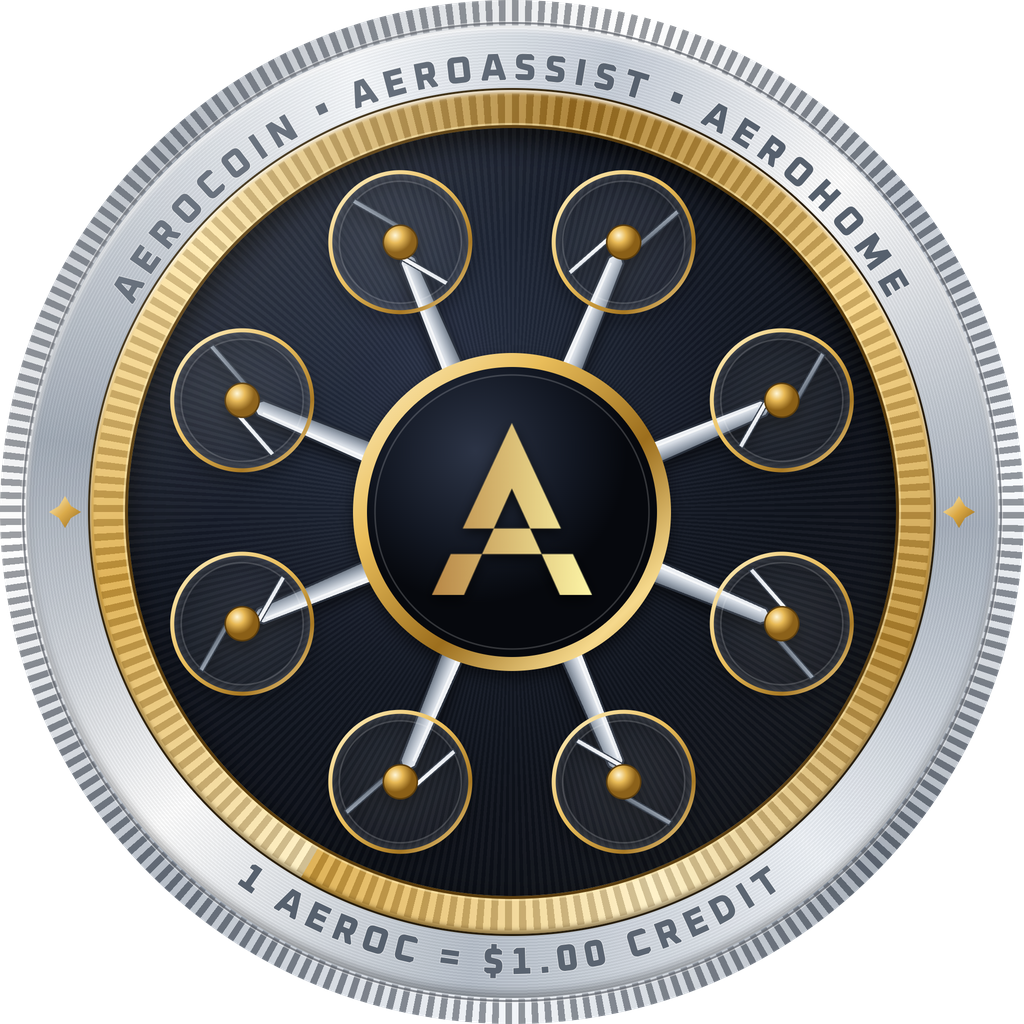
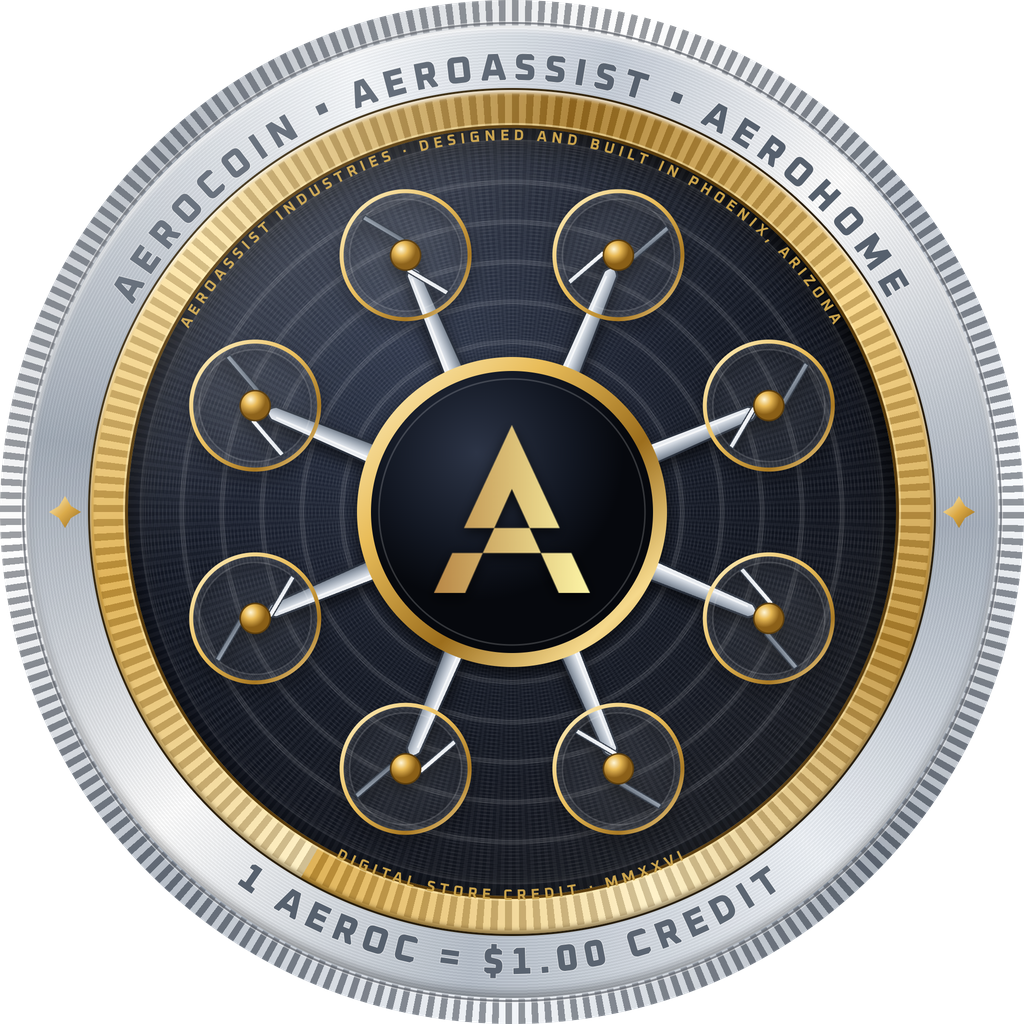
Two-sided 3D coin hero, mint-detail obverse and reverse, The coin section
Claude-Session: https://claude.ai/code/session_011tU1sWJE9U8aPvZsodhiRM

diff --git a/index.html b/index.html
@@ -108,13 +108,38 @@ a.btn.btn-gold{color:var(--on-gold)}
 .seal small{display:block;font-family:var(--mono);font-size:11.5px;letter-spacing:.12em;text-transform:uppercase;color:var(--slate-dim)}
 .hero-stage{position:relative;display:grid;place-items:center;overflow:hidden;background:radial-gradient(48% 58% at 50% 46%,rgba(214,220,228,.13),transparent 62%),radial-gradient(90% 90% at 50% 50%,#151a24 0%,#0a0d14 55%,var(--abyss) 100%)}
 .hero-stage::before{content:"";position:absolute;inset:0;background:repeating-radial-gradient(circle at 50% 46%,rgba(255,255,255,.025) 0 1px,transparent 1px 7px)}
-.coin-stage{position:relative;width:min(470px,78%);aspect-ratio:1;perspective:1200px}
-.tilt{position:relative;width:100%;height:100%;transform:rotateX(var(--rx,0deg)) rotateY(var(--ry,0deg));transform-style:preserve-3d;transition:transform .25s ease-out}
-.coin{width:100%;height:100%;filter:drop-shadow(0 46px 60px rgba(0,0,0,.9));animation:arrive 1.6s cubic-bezier(.2,.7,.2,1) both}
-.glint{position:absolute;inset:1%;border-radius:50%;pointer-events:none;mix-blend-mode:screen;background:radial-gradient(circle at var(--gx,30%) var(--gy,25%),rgba(255,255,255,.36),rgba(255,255,255,.06) 28%,transparent 48%);animation:fadein 1.6s both}
-@keyframes arrive{0%{transform:rotateY(-540deg) scale(.82);opacity:0}35%{opacity:1}100%{transform:rotateY(0) scale(1);opacity:1}}
+.coin-stage{position:relative;width:min(470px,78%);aspect-ratio:1;perspective:1400px;cursor:grab;touch-action:pan-y;user-select:none;-webkit-user-select:none}
+.coin-stage.drag{cursor:grabbing}
+.coin3d{position:relative;width:100%;height:100%;transform-style:preserve-3d;transform:rotateX(var(--rx,0deg)) rotateY(var(--ry,0deg));animation:arrive 1.8s cubic-bezier(.2,.7,.2,1) both}
+.coin3d.settle{transition:transform .9s cubic-bezier(.2,.8,.2,1)}
+.face3d{position:absolute;inset:0;border-radius:50%;backface-visibility:hidden;-webkit-backface-visibility:hidden;transform:translateZ(calc(var(--t)/2 + 1px))}
+.face3d img{width:100%;height:100%;border-radius:50%;display:block;-webkit-user-drag:none}
+.face3d.back{transform:rotateY(180deg) translateZ(calc(var(--t)/2 + 1px))}
+.edge3d{position:absolute;inset:0;border-radius:50%;background:conic-gradient(from 0deg,#e9edf2,#8f99a7 12%,#f3f6fa 25%,#6d7682 40%,#e6eaef 55%,#8e97a3 70%,#f7f9fb 85%,#e9edf2);transform:translateZ(var(--z));-webkit-mask:radial-gradient(circle,transparent 96.5%,#000 97%);mask:radial-gradient(circle,transparent 96.5%,#000 97%)}
+.coin-shadow{position:absolute;left:10%;right:10%;bottom:-14%;height:12%;border-radius:50%;background:radial-gradient(ellipse at center,rgba(0,0,0,.75),rgba(0,0,0,.35) 45%,transparent 72%);filter:blur(6px);animation:fadein 1.8s both}
+.glint{position:absolute;inset:1%;border-radius:50%;pointer-events:none;mix-blend-mode:screen;background:radial-gradient(circle at var(--gx,30%) var(--gy,25%),rgba(255,255,255,.36),rgba(255,255,255,.06) 28%,transparent 48%);animation:fadein 1.8s both;transform:translateZ(calc(var(--t)/2 + 1px))}
+@keyframes arrive{0%{transform:rotateY(-720deg) scale(.8);opacity:0}30%{opacity:1}100%{transform:rotateY(0) scale(1);opacity:1}}
 @keyframes fadein{0%,60%{opacity:0}100%{opacity:1}}
-.stage-caption{position:absolute;left:0;right:0;bottom:28px;text-align:center;font-family:var(--mono);font-size:12px;letter-spacing:.16em;text-transform:uppercase;color:var(--mist-dim)}
+.stage-caption{position:absolute;left:0;right:0;bottom:28px;display:flex;justify-content:center;gap:10px;align-items:center;font-family:var(--mono);font-size:12px;letter-spacing:.16em;text-transform:uppercase;color:var(--mist-dim)}
+.stage-caption button{font:inherit;letter-spacing:inherit;text-transform:inherit;color:var(--mist);background:transparent;border:1px solid var(--line-dark);padding:8px 14px;cursor:pointer}
+.stage-caption button:hover{color:var(--ink);border-color:var(--mist-dim)}
+.stage-caption button[aria-pressed="true"]{color:var(--gold);border-color:rgba(226,190,114,.5)}
+.stage-hint{position:absolute;left:0;right:0;top:26px;text-align:center;font-family:var(--mono);font-size:11.5px;letter-spacing:.16em;text-transform:uppercase;color:var(--mist-dim);animation:fadein 2.4s both}
+
+/* the coin section */
+.coinspec{display:grid;grid-template-columns:minmax(0,1fr) minmax(0,1fr);gap:72px;align-items:center}
+.coinspec figure{margin:0;position:relative}
+.coinspec figure img{width:min(520px,100%);margin:0 auto;filter:drop-shadow(0 40px 60px rgba(0,0,0,.85))}
+.spec-list{list-style:none;margin:0;padding:0;display:grid}
+.spec-list li{display:grid;grid-template-columns:40px 1fr;gap:18px;padding:20px 0;border-top:1px solid var(--line-dark)}
+.spec-list li:last-child{border-bottom:1px solid var(--line-dark)}
+.spec-list i{display:grid;place-items:center;width:40px;height:40px;border-radius:50%;font-style:normal;font-family:var(--display);font-weight:800;font-size:15px;color:var(--gold);background:radial-gradient(circle,#121722 0 15px,transparent 15.5px),conic-gradient(#f5f7fa,#8e97a3 25%,#eef1f5 50%,#7a838f 75%,#f5f7fa)}
+.spec-list b{display:block;font-family:var(--display);font-weight:700;font-size:19px;color:var(--ink)}
+.spec-list span{display:block;font-size:15.5px;color:var(--mist)}
+.coin-tabs{display:flex;gap:8px;margin-bottom:28px}
+.coin-tabs button{font-family:var(--display);font-weight:700;font-size:13px;letter-spacing:.12em;text-transform:uppercase;color:var(--mist);background:transparent;border:1px solid var(--line-dark);padding:10px 18px;cursor:pointer}
+.coin-tabs button[aria-selected="true"]{color:var(--on-gold);background:linear-gradient(135deg,var(--sheen-light),var(--gold) 45%,var(--sheen-dark));border-color:transparent}
+.coin-panel[hidden]{display:none}
 
 /* assurance strip */
 .assure{border-bottom:1px solid var(--line-light)}
@@ -293,7 +318,7 @@ a.btn.btn-gold{color:var(--on-gold)}
   .hero-stage{order:-1;min-height:400px}
   .coin-stage{width:min(320px,72%)}
   .hero-copy{padding:56px var(--gutter) 64px}
-  .head.split,.how,.setup,.faq{grid-template-columns:1fr;gap:40px}
+  .head.split,.how,.setup,.faq,.coinspec{grid-template-columns:1fr;gap:40px}
   .faq .head{position:static}
   .cols3,.merchants,.guards{grid-template-columns:1fr}
   .closing .wrap{flex-direction:column;align-items:flex-start}
@@ -316,8 +341,8 @@ a.btn.btn-gold{color:var(--on-gold)}
 @media (min-width:961px){.mobile-nav.open{display:none}}
 @media (prefers-reduced-motion:reduce){
   html{scroll-behavior:auto}
-  .coin,.glint{animation:none}
-  .tilt,.qa summary::after{transition:none}
+  .coin3d,.glint,.coin-shadow,.stage-hint{animation:none}
+  .coin3d.settle,.qa summary::after{transition:none}
 }
 </style>
 </head>
@@ -330,7 +355,7 @@ a.btn.btn-gold{color:var(--on-gold)}
       <a href="#how">How it works</a>
       <a href="#earn">Earn</a>
       <a href="#spend">Spend</a>
-      <a href="#compare">Compare</a>
+      <a href="#coin">The coin</a>
       <a href="#wallet">Wallet</a>
       <a href="#questions">FAQ</a>
     </nav>
@@ -341,7 +366,8 @@ a.btn.btn-gold{color:var(--on-gold)}
     <a href="#how">How it works</a>
     <a href="#earn">Earn</a>
     <a href="#spend">Spend</a>
-    <a href="#compare">Compare</a>
+ <a href="#compare">Compare</a>
+    <a href="#coin">The coin</a>
     <a href="#wallet">Wallet</a>
     <a href="#questions">FAQ</a>
     <a class="cta" href="https://aeroassist.us">Join rewards</a>
@@ -367,13 +393,17 @@ a.btn.btn-gold{color:var(--on-gold)}
       </div>
     </div>
     <div class="hero-stage">
-      <div class="coin-stage">
-        <div class="tilt">
-          <img class="coin" src="assets/coin-1024.png" alt="The AeroCoin: a platinum coin with an engraved gold ring, an eight-rotor drone with gold rotors on its face and the gold AeroAssist A on the drone's hub" width="470" height="470">
+      <p class="stage-hint">Drag to spin · Tap to flip</p>
+      <div class="coin-stage" id="coin-stage" style="--t:22px">
+        <div class="coin3d" id="coin3d">
+          <div class="edge3d" style="--z:-11px"></div><div class="edge3d" style="--z:-8px"></div><div class="edge3d" style="--z:-5px"></div><div class="edge3d" style="--z:-2px"></div><div class="edge3d" style="--z:1px"></div><div class="edge3d" style="--z:4px"></div><div class="edge3d" style="--z:7px"></div><div class="edge3d" style="--z:10px"></div>
+          <div class="face3d front"><img src="assets/coin-1024.png" alt="AeroCoin, front: a platinum coin with an engraved gold ring, an eight-rotor drone and the gold AeroAssist A on its hub" width="470" height="470"></div>
+          <div class="face3d back"><img src="assets/coin-reverse-1024.png" alt="AeroCoin, back: a large gold 1, the words One dollar of store credit, Phoenix, Arizona, 2026" width="470" height="470"></div>
           <div class="glint" aria-hidden="true"></div>
         </div>
+        <div class="coin-shadow" aria-hidden="true"></div>
       </div>
-      <p class="stage-caption">1 AEROC = $1.00 of credit</p>
+      <div class="stage-caption"><button type="button" data-side="0" aria-pressed="true">Front</button><button type="button" data-side="180" aria-pressed="false">Back</button></div>
     </div>
   </div>
 
@@ -558,7 +588,43 @@ a.btn.btn-gold{color:var(--on-gold)}
     </div>
   </section>
 
-  <section class="dark">
+  <section id="coin" class="dark">
+    <div class="wrap coinspec">
+      <figure>
+        <img id="spec-img" src="assets/coin-1024.png" alt="AeroCoin front" width="520" height="520">
+      </figure>
+      <div>
+        <div class="head" style="margin-bottom:32px">
+          <p class="kicker">The coin</p>
+          <h2>Two faces,<span class="g">three metals.</span></h2>
+          <p class="intro">AeroCoin is designed like a minted coin: a platinum rim with a reeded edge, an engraved gold ring, and a dark proof field with an engine-turned pattern.</p>
+        </div>
+        <div class="coin-tabs" role="tablist" aria-label="Coin sides">
+          <button type="button" role="tab" aria-selected="true" aria-controls="panel-front" data-img="assets/coin-1024.png">Front</button>
+          <button type="button" role="tab" aria-selected="false" aria-controls="panel-back" data-img="assets/coin-reverse-1024.png">Back</button>
+        </div>
+        <div id="panel-front" class="coin-panel" role="tabpanel">
+          <ul class="spec-list">
+            <li><i>1</i><div><b>Platinum rim</b><span>Reeded edge, with AeroCoin, AeroAssist and AeroHome engraved around the top and the coin's value around the bottom.</span></div></li>
+            <li><i>2</i><div><b>Engraved gold ring</b><span>A wide band of gold with a fine radial engraving, flanked by two gold stars.</span></div></li>
+            <li><i>3</i><div><b>The octocopter</b><span>An eight-rotor aircraft in platinum, the same layout as AeroAssist's XR line, with gold rotor rings and hubs.</span></div></li>
+            <li><i>4</i><div><b>The AeroAssist mark</b><span>The gold A sits at the aircraft's center, on a gold-ringed hub.</span></div></li>
+            <li><i>5</i><div><b>Micro-lettering</b><span>A fine inner ring reads "Designed and built in Phoenix, Arizona" and carries the year in Roman numerals.</span></div></li>
+          </ul>
+        </div>
+        <div id="panel-back" class="coin-panel" role="tabpanel" hidden>
+          <ul class="spec-list">
+            <li><i>1</i><div><b>The denomination</b><span>A large gold 1 over the words One dollar of store credit: what every AeroCoin is worth.</span></div></li>
+            <li><i>2</i><div><b>The ticker</b><span>AEROC, the symbol your wallet shows for AeroCoin.</span></div></li>
+            <li><i>3</i><div><b>Origin and year</b><span>Phoenix, Arizona and 2026 around the rim, with an AZ mint mark on the field.</span></div></li>
+            <li><i>4</i><div><b>Micro-lettering</b><span>"Earn it, hold it, spend it" above and "Recorded on Base, retired when spent" below.</span></div></li>
+          </ul>
+        </div>
+      </div>
+    </div>
+  </section>
+
+  <section class="dark" style="padding-top:0">
     <div class="wrap">
       <div class="head split">
         <div>
@@ -703,16 +769,31 @@ a.btn.btn-gold{color:var(--on-gold)}
   }
 })();
 (function(){
-  var stage=document.querySelector('.coin-stage');
-  if(!stage||!window.matchMedia||window.matchMedia('(prefers-reduced-motion: reduce)').matches||!window.matchMedia('(pointer: fine)').matches)return;
-  var tilt=stage.querySelector('.tilt'),glint=stage.querySelector('.glint'),area=document.querySelector('.hero');
-  area.addEventListener('pointermove',function(e){
-    var r=stage.getBoundingClientRect(),x=(e.clientX-r.left)/r.width-.5,y=(e.clientY-r.top)/r.height-.5;
-    x=Math.max(-.8,Math.min(.8,x));y=Math.max(-.8,Math.min(.8,y));
-    tilt.style.setProperty('--ry',(x*16).toFixed(2)+'deg');tilt.style.setProperty('--rx',(-y*16).toFixed(2)+'deg');
-    glint.style.setProperty('--gx',(50+x*60).toFixed(1)+'%');glint.style.setProperty('--gy',(50+y*60).toFixed(1)+'%');
-  });
-  area.addEventListener('pointerleave',function(){tilt.style.setProperty('--ry','0deg');tilt.style.setProperty('--rx','0deg');});
+  var stage=document.getElementById('coin-stage'),coin=document.getElementById('coin3d');
+  if(!stage||!coin)return;
+  var reduce=window.matchMedia&&window.matchMedia('(prefers-reduced-motion: reduce)').matches;
+  var ry=0,rx=0,dragging=false,moved=false,lastX=0,lastY=0,vel=0,startT=0,raf=null;
+  var glint=coin.querySelector('.glint');
+  function apply(){coin.style.setProperty('--ry',ry.toFixed(2)+'deg');coin.style.setProperty('--rx',rx.toFixed(2)+'deg');
+    var f=((ry%360)+360)%360; var gx=50+Math.sin(f*Math.PI/180)*-40; glint.style.setProperty('--gx',gx.toFixed(1)+'%');glint.style.setProperty('--gy',(30+rx).toFixed(1)+'%');
+    var front=f<90||f>270; buttons.forEach(function(b){b.setAttribute('aria-pressed',(b.dataset.side==='0')===front?'true':'false');});}
+  var buttons=[].slice.call(document.querySelectorAll('.stage-caption button'));
+  coin.addEventListener('animationend',function(){coin.style.animation='none';apply();});
+  if(reduce){coin.style.animation='none';}
+  function settleTo(target){coin.classList.add('settle');ry=target;rx=0;apply();setTimeout(function(){coin.classList.remove('settle');},900);}
+  function nearest(){var f=((ry%360)+360)%360;var base=ry-f;var t=f<90?0:(f<270?180:360);return base+t;}
+  function spinStep(){if(Math.abs(vel)<0.15){settleTo(nearest());raf=null;return;}ry+=vel;vel*=0.95;apply();raf=requestAnimationFrame(spinStep);}
+  stage.addEventListener('pointerdown',function(e){if(reduce)return;dragging=true;moved=false;lastX=e.clientX;lastY=e.clientY;vel=0;startT=Date.now();coin.classList.remove('settle');if(raf){cancelAnimationFrame(raf);raf=null;}stage.classList.add('drag');stage.setPointerCapture(e.pointerId);});
+  stage.addEventListener('pointermove',function(e){if(!dragging)return;var dx=e.clientX-lastX,dy=e.clientY-lastY;if(Math.abs(dx)>3||Math.abs(dy)>3)moved=true;ry+=dx*0.6;rx=Math.max(-18,Math.min(18,rx-dy*0.2));vel=dx*0.6;lastX=e.clientX;lastY=e.clientY;apply();});
+  function release(e){if(!dragging)return;dragging=false;stage.classList.remove('drag');if(!moved){settleTo(nearest()+180);return;}if(Math.abs(vel)>1){raf=requestAnimationFrame(spinStep);}else{settleTo(nearest());}}
+  stage.addEventListener('pointerup',release);stage.addEventListener('pointercancel',release);
+  buttons.forEach(function(b){b.addEventListener('click',function(){var f=((ry%360)+360)%360,base=ry-f,target=base+parseFloat(b.dataset.side);if(parseFloat(b.dataset.side)===0&&f>180)target=base+360;settleTo(target);});});
+  stage.addEventListener('keydown',function(e){if(e.key==='Enter'||e.key===' '){e.preventDefault();settleTo(nearest()+180);}});
+  stage.setAttribute('tabindex','0');stage.setAttribute('role','img');stage.setAttribute('aria-label','AeroCoin. Press Enter to flip, or drag to spin.');
+  if(!reduce){var area=document.querySelector('.hero');area.addEventListener('pointermove',function(e){if(dragging)return;var r=stage.getBoundingClientRect(),x=(e.clientX-r.left)/r.width-.5,y=(e.clientY-r.top)/r.height-.5;x=Math.max(-.8,Math.min(.8,x));y=Math.max(-.8,Math.min(.8,y));glint.style.setProperty('--gx',(50+x*60).toFixed(1)+'%');glint.style.setProperty('--gy',(50+y*60).toFixed(1)+'%');});}
+  apply();
+  var tabs=[].slice.call(document.querySelectorAll('.coin-tabs [role=tab]')),img=document.getElementById('spec-img');
+  tabs.forEach(function(t){t.addEventListener('click',function(){tabs.forEach(function(o){o.setAttribute('aria-selected',o===t?'true':'false');document.getElementById(o.getAttribute('aria-controls')).hidden=o!==t;});img.src=t.dataset.img;img.alt=t.textContent==='Front'?'AeroCoin front':'AeroCoin back';});});
 })();
 </script>
 </body>
